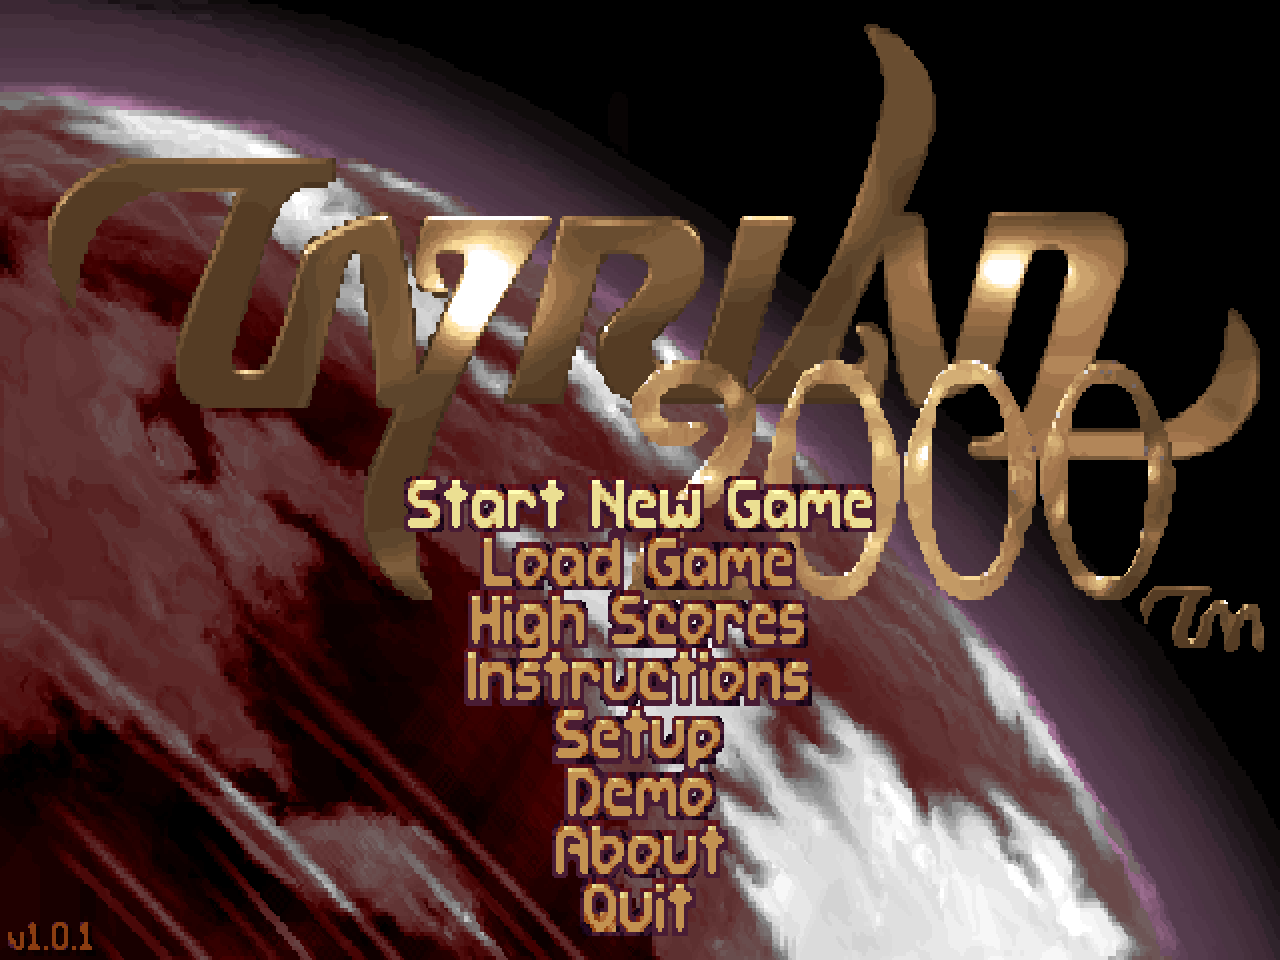
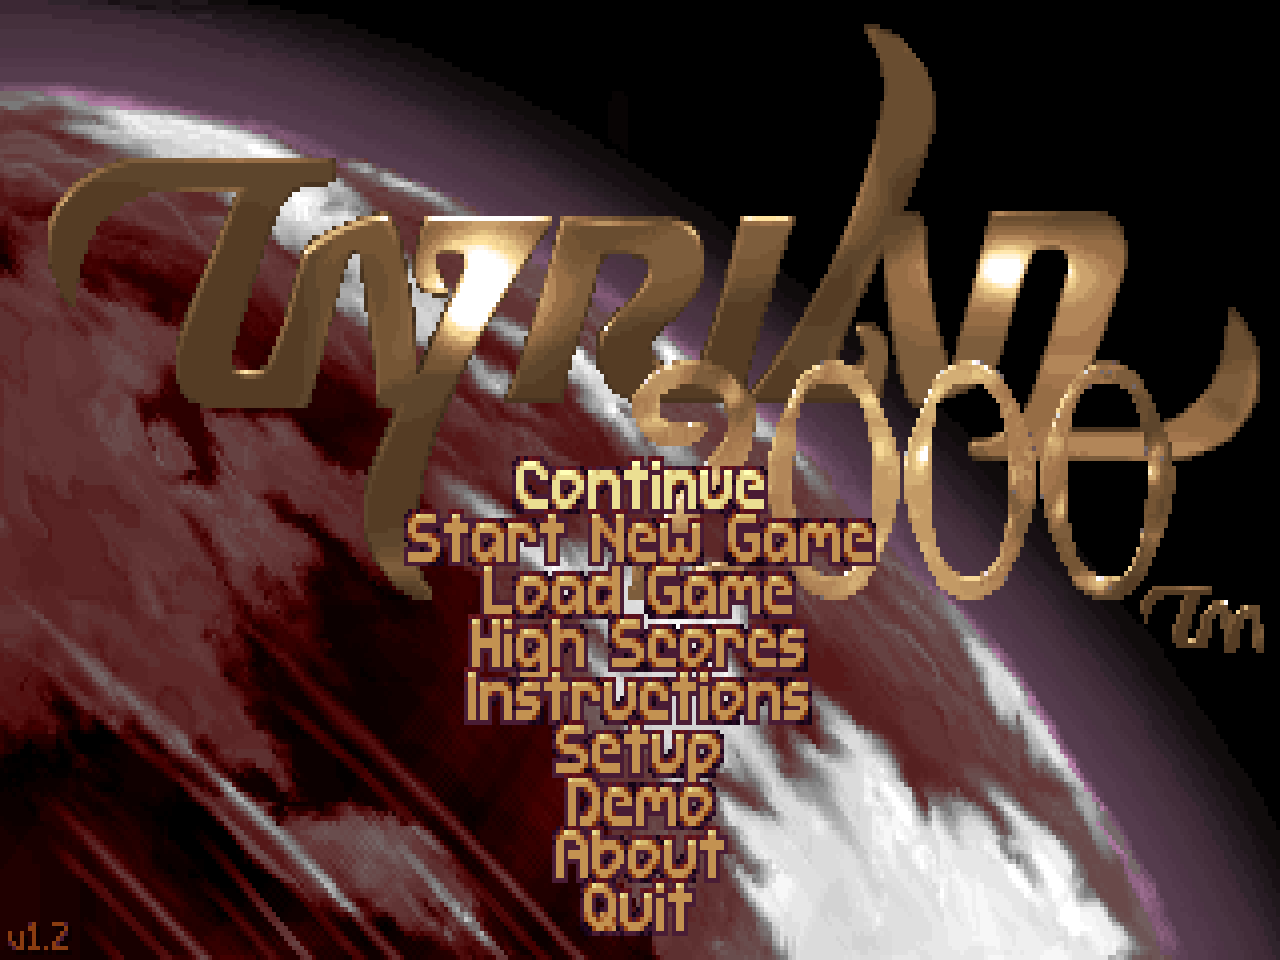
README: new screenshots of v1.2
Title screen with Continue, the shop comparing items, the pause menu with
Controls and Graphics, the Controller Map with Xbox button icons and the
statistics screen.

Claude-Session: https://claude.ai/code/session_01HCg9eudFd5dAAMZSFaSkef

Changed region(s): [[0.3125, 0.4688, 0.6875, 0.9375], [0.0312, 0.9688, 0.0938, 1.0], [0.1875, 0.8438, 0.2188, 0.875]]

diff --git a/README.pt-BR.md b/README.pt-BR.md
@@ -16,12 +16,16 @@ e Linux / Steam Deck. Como instalar está [mais abaixo](#instalação).
 
 <table>
   <tr>
-    <td><img src="doc/screenshots/1-tela-titulo.png" width="400" alt="Tela de título"></td>
+    <td><img src="doc/screenshots/1-tela-titulo.png" width="400" alt="Tela de título com Continue"></td>
     <td><img src="doc/screenshots/2-fase.png" width="400" alt="Uma fase"></td>
   </tr>
   <tr>
-    <td><img src="doc/screenshots/4-pausa-auto-fire-graphics.png" width="400" alt="Pausa com Auto Fire e Graphics"></td>
-    <td><img src="doc/screenshots/5-controller-map.png" width="400" alt="Controller Map"></td>
+    <td><img src="doc/screenshots/3-loja.png" width="400" alt="Loja comparando cada arma com a da nave (verde é melhor)"></td>
+    <td><img src="doc/screenshots/4-pausa-auto-fire-graphics.png" width="400" alt="Pausa com Auto Fire, Controls e Graphics"></td>
+  </tr>
+  <tr>
+    <td><img src="doc/screenshots/5-controller-map.png" width="400" alt="Controller Map com os ícones dos botões do Xbox"></td>
+    <td><img src="doc/screenshots/6-estatisticas.png" width="400" alt="Estatísticas e recordes das fases"></td>
   </tr>
 </table>
 

diff --git a/README.md b/README.md
@@ -16,12 +16,16 @@ and Linux / Steam Deck. How to install is [below](#installation).
 
 <table>
   <tr>
-    <td><img src="doc/screenshots/1-tela-titulo.png" width="400" alt="Title screen"></td>
+    <td><img src="doc/screenshots/1-tela-titulo.png" width="400" alt="Title screen with Continue"></td>
     <td><img src="doc/screenshots/2-fase.png" width="400" alt="A level"></td>
   </tr>
   <tr>
-    <td><img src="doc/screenshots/4-pausa-auto-fire-graphics.png" width="400" alt="Pause menu with Auto Fire and Graphics"></td>
-    <td><img src="doc/screenshots/5-controller-map.png" width="400" alt="Controller Map"></td>
+    <td><img src="doc/screenshots/3-loja.png" width="400" alt="Shop comparing each gun with the ship's (green is better)"></td>
+    <td><img src="doc/screenshots/4-pausa-auto-fire-graphics.png" width="400" alt="Pause menu with Auto Fire, Controls and Graphics"></td>
+  </tr>
+  <tr>
+    <td><img src="doc/screenshots/5-controller-map.png" width="400" alt="Controller Map with Xbox button icons"></td>
+    <td><img src="doc/screenshots/6-estatisticas.png" width="400" alt="Statistics and level records"></td>
   </tr>
 </table>
 
